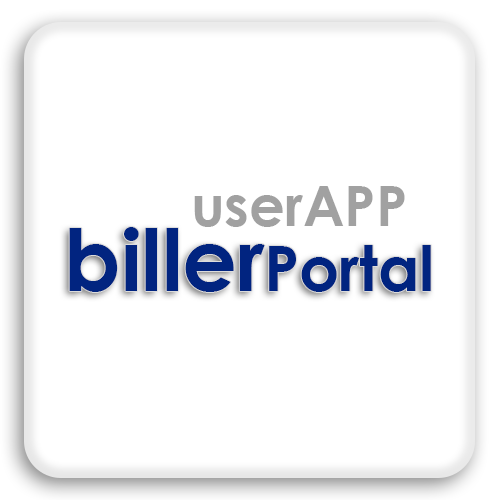
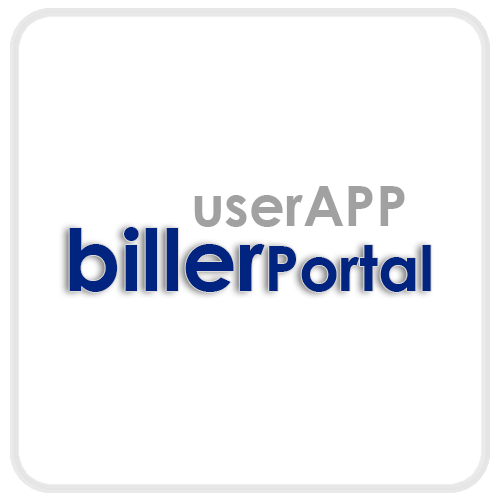
invoice added

diff --git a/public/css/nicepage.css b/public/css/nicepage.css
@@ -32022,8 +32022,8 @@ a.u-link.u-text-hover-grey-90:hover {
             color: #012480 !important;
         }
 
-        
-        
+
+
         .u-custom-color-2,
         .u-body.u-custom-color-2,
         .u-container-style.u-custom-color-2:before,
@@ -32080,9 +32080,9 @@ a.u-link.u-text-hover-grey-90:hover {
             color: #ff8300 !important;
         }
 
-        
 
-        
+
+
         .u-border-custom-color-1,
         .u-separator-custom-color-1:after
         {
@@ -32127,8 +32127,8 @@ a.u-link.u-text-hover-grey-90:hover {
         {
             border-color: #012073 !important;
         }
-        
-        
+
+
         .u-border-custom-color-2,
         .u-separator-custom-color-2:after
         {
@@ -32173,9 +32173,9 @@ a.u-link.u-text-hover-grey-90:hover {
         {
             border-color: #e67600 !important;
         }
-        
 
-        
+
+
         .u-text-custom-color-1,
         a.u-button-style.u-text-custom-color-1,
         a.u-button-style.u-text-custom-color-1[class*="u-border-"]
@@ -32227,8 +32227,8 @@ a.u-link.u-text-hover-grey-90:hover {
         {
             color: #012480 !important;
         }
-        
-        
+
+
         .u-text-custom-color-2,
         a.u-button-style.u-text-custom-color-2,
         a.u-button-style.u-text-custom-color-2[class*="u-border-"]
@@ -32281,7 +32281,7 @@ a.u-link.u-text-hover-grey-90:hover {
             color: #ff8300 !important;
         }
 
-        
+
 
         /** common-rules **/
         h1.u-title
@@ -32400,7 +32400,7 @@ a.u-link.u-text-hover-grey-90:hover {
         }
         .u-body
         {
-        background-image: linear-gradient(white, #f2f2f2);
+        background-image: linear-gradient(white, white);
         background-attachment: fixed;
         }
         /** common-rules **/
@@ -32446,7 +32446,7 @@ a.u-link.u-text-hover-grey-90:hover {
         /*end-media rules*/
         /** publish-rules **/
 
-        
+
 
         /** cms-rules **/
         /*begin-responsive rules*/
@@ -32558,7 +32558,7 @@ a.u-link.u-text-hover-grey-90:hover {
         color: #ffffff;
         }
         /** alt-color-rules **/
-    
+
 
 
 /*end-variables sitestylecss*/
@@ -32850,6 +32850,6 @@ a.u-link.u-text-hover-grey-90:hover {
   }
 }
 
- /*begin-variables base-font-size*/ 
+ /*begin-variables base-font-size*/
  html { font-size: 16px; }
  /*end-variables base-font-size*/

diff --git a/public/css/Home.css b/public/css/Home.css
@@ -1,5 +1,5 @@
 .u-section-1 {
-  background-image: url("../images/img/d2.png");
+  background-image: url("../images/shape/hero-shape.svg");
 }
 
 .u-section-1 .u-sheet-1 {

diff --git a/resources/views/about.blade.php b/resources/views/about.blade.php
@@ -265,7 +265,7 @@
                     </div>
                     <div class="item-info">
                         <center><h4><a href="#">Kanishka Weeramunda</a></h4>
-                            <p>Director / Founder</p></center>
+                            <p>Founder/CEO</p></center>
                     </div>
                 </div>
             </div>
@@ -276,7 +276,7 @@
                     </div>
                     <div class="item-info">
                         <center><h4><a href="#">Dinesh Karunathilaka</a></h4>
-                            <p>Director / Founder</p></center>
+                            <p>Co-Founder</p></center>
                     </div>
                 </div>
             </div>
@@ -287,7 +287,7 @@
                     </div>
                     <div class="item-info">
                         <center><h4><a href="#">Sasindu Pathiranage</a></h4>
-                            <p>Director / Co-Founder</p></center>
+                            <p>Co-Founder/COO</p></center>
                     </div>
                 </div>
             </div>

diff --git a/resources/views/merchant.blade.php b/resources/views/merchant.blade.php
@@ -280,7 +280,7 @@
 <div class="nn-card-set">
 <div class="s-card-icon"><img src="images/icons/development.svg" alt="service" class="img-fluid" /></div>
 <h4>Attach your NIC/DL and BR</h4>
-<p>Attach a copy of your NIC/Driving Licence or Passport and Business Registration along with the registration form or if you are filling our online application, upload them to our online portal.</p>
+<p>Attach a copy of your NIC/Driving License or Passport and Business Registration along with the registration form or if you are filling our online application, upload them to our online portal.</p>
 
 </div>
 </div>
